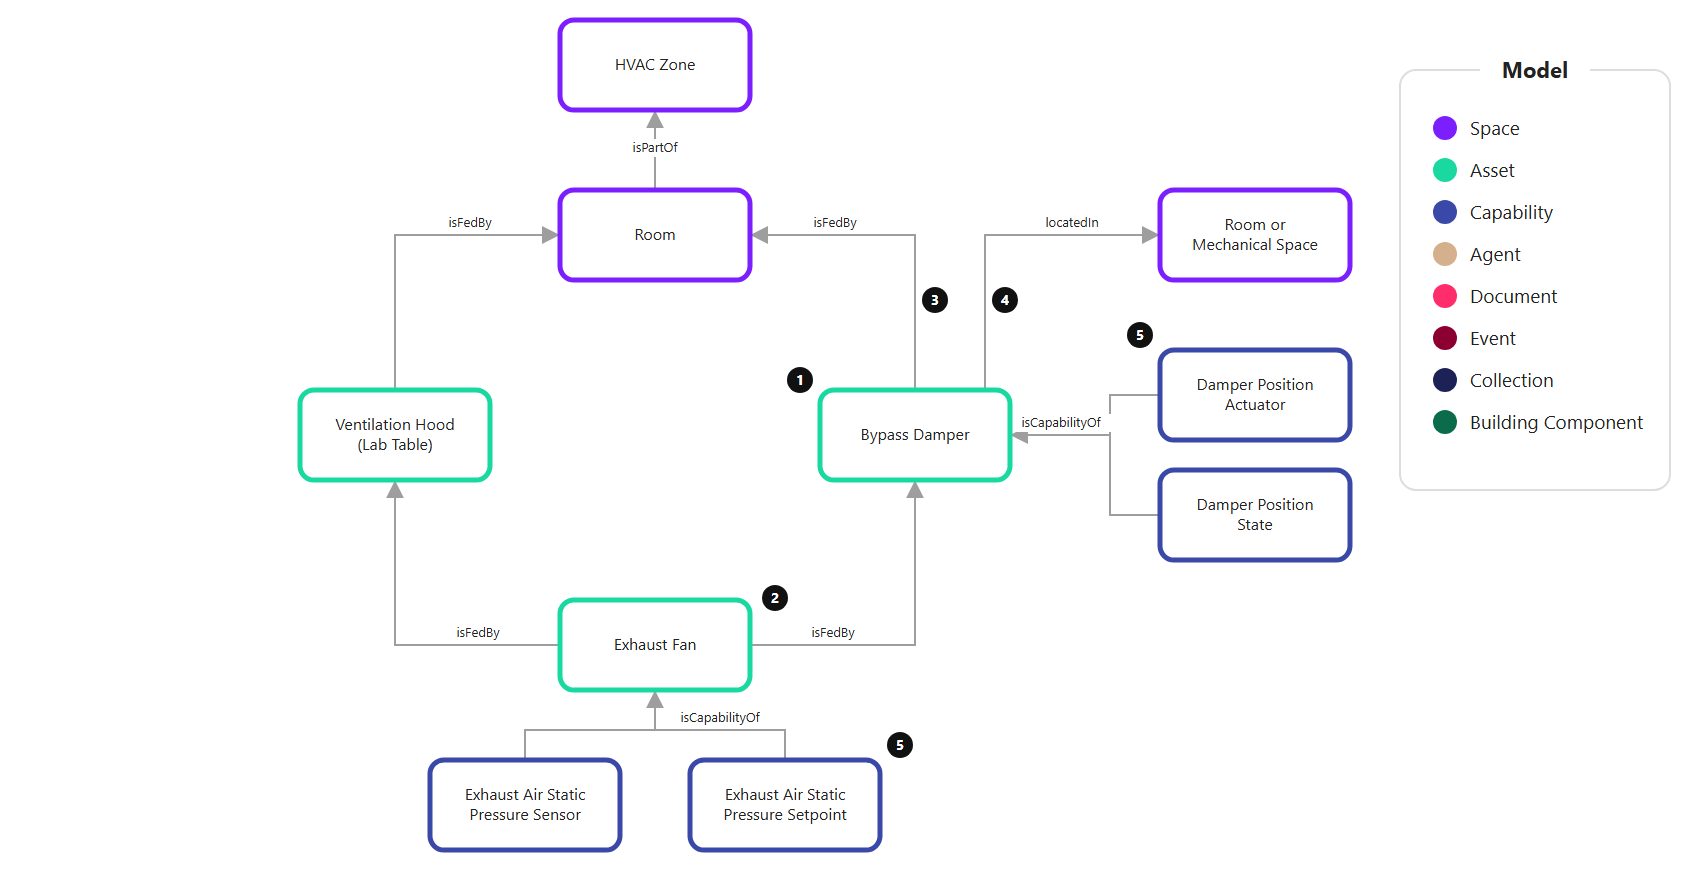
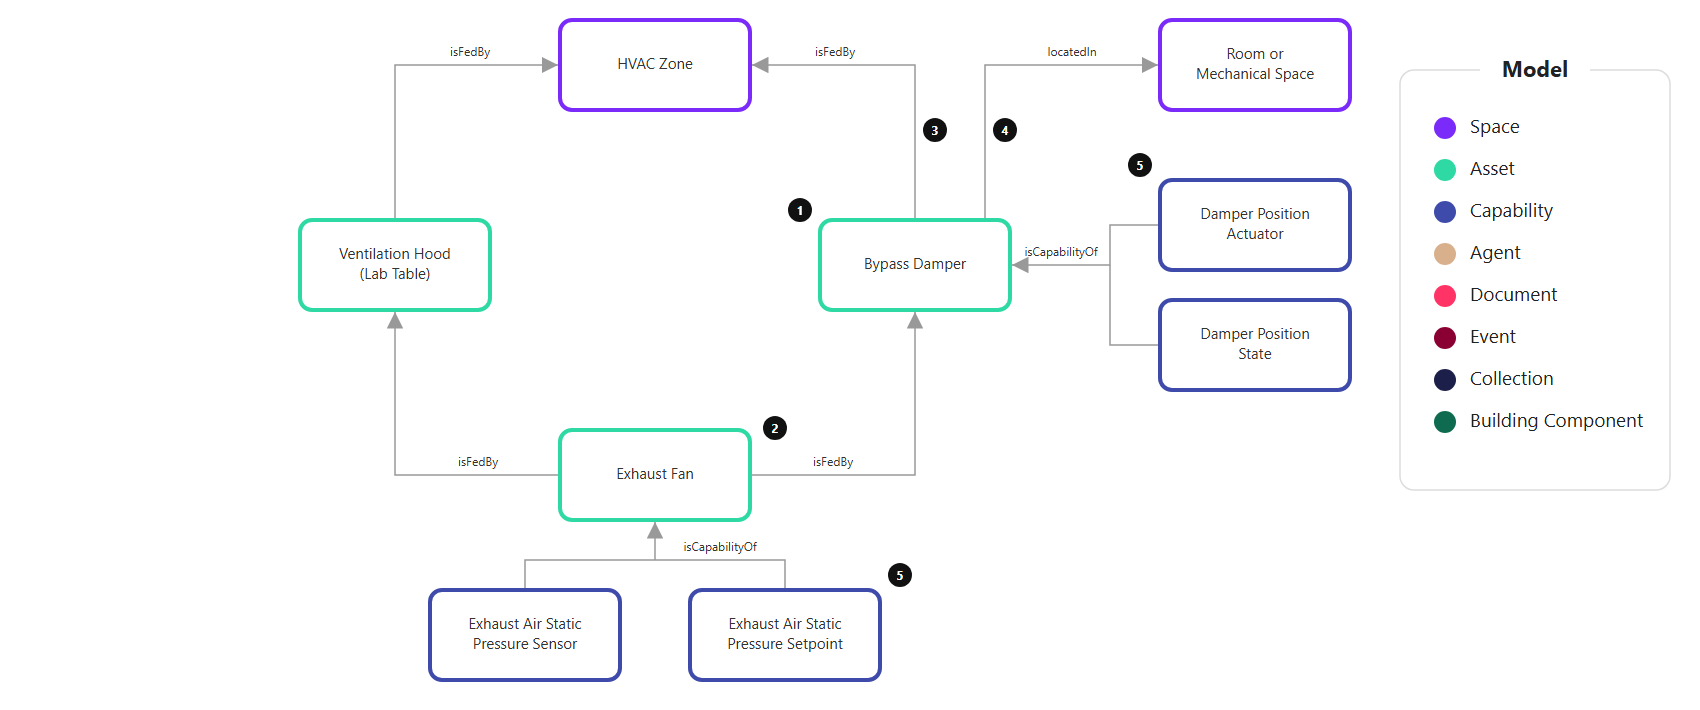
update to is fed by zone

diff --git a/Samples/03-HVAC.md b/Samples/03-HVAC.md
@@ -56,7 +56,7 @@ At a fundamental level, HVAC systems exchange energy and move air and water to c
 
 6. Similarly, each of the assets and asset groups shown in this example have capabilities associated with them. For simplicity on a few of these capabilities are shown such as the Face Velocity Setpoint on the Fume Hood or the Damper Position Actuator on the Supply VAV Airflow Control Valve.
 
-### Exhaust Fan with a Room Bypass Damper
+### Exhaust Fan with a Bypass Damper
 
 ![HVACExhaustBypassDamper-Example1](Images/HVACExhaustBypassDamper-Example1.png)
 
@@ -64,9 +64,9 @@ At a fundamental level, HVAC systems exchange energy and move air and water to c
 
 2. The isFedBy relationships indicate the direction of the airflow, as in the HVAC Pressurization Zone example. The Exhaust Fan isFedBy both the Bypass Damper and the Ventilation Hood.
 
-3. The Bypass Damper isFedBy the Room it draws air from rather than the HVAC Zone, because a zone may contain several Rooms. The zone can still be found from the Room through its isPartOf relationship.
+3. The Bypass Damper isFedBy the HVAC Zone it draws air from, in the same way the HVAC Pressurization Zone feeds the Fume Hoods in the example above.
 
-4. The Bypass Damper also has a locatedIn relationship to the Space where it is installed, which may be different from the Room it draws air from.
+4. The Bypass Damper also has a locatedIn relationship to the Space where it is installed, which may be different from the space served by the HVAC Zone it draws air from.
 
 5. The Damper Position Actuator and Damper Position State are capabilities of the Bypass Damper. The Exhaust Air Static Pressure Sensor and Exhaust Air Static Pressure Setpoint are capabilities of the Exhaust Fan.
 
